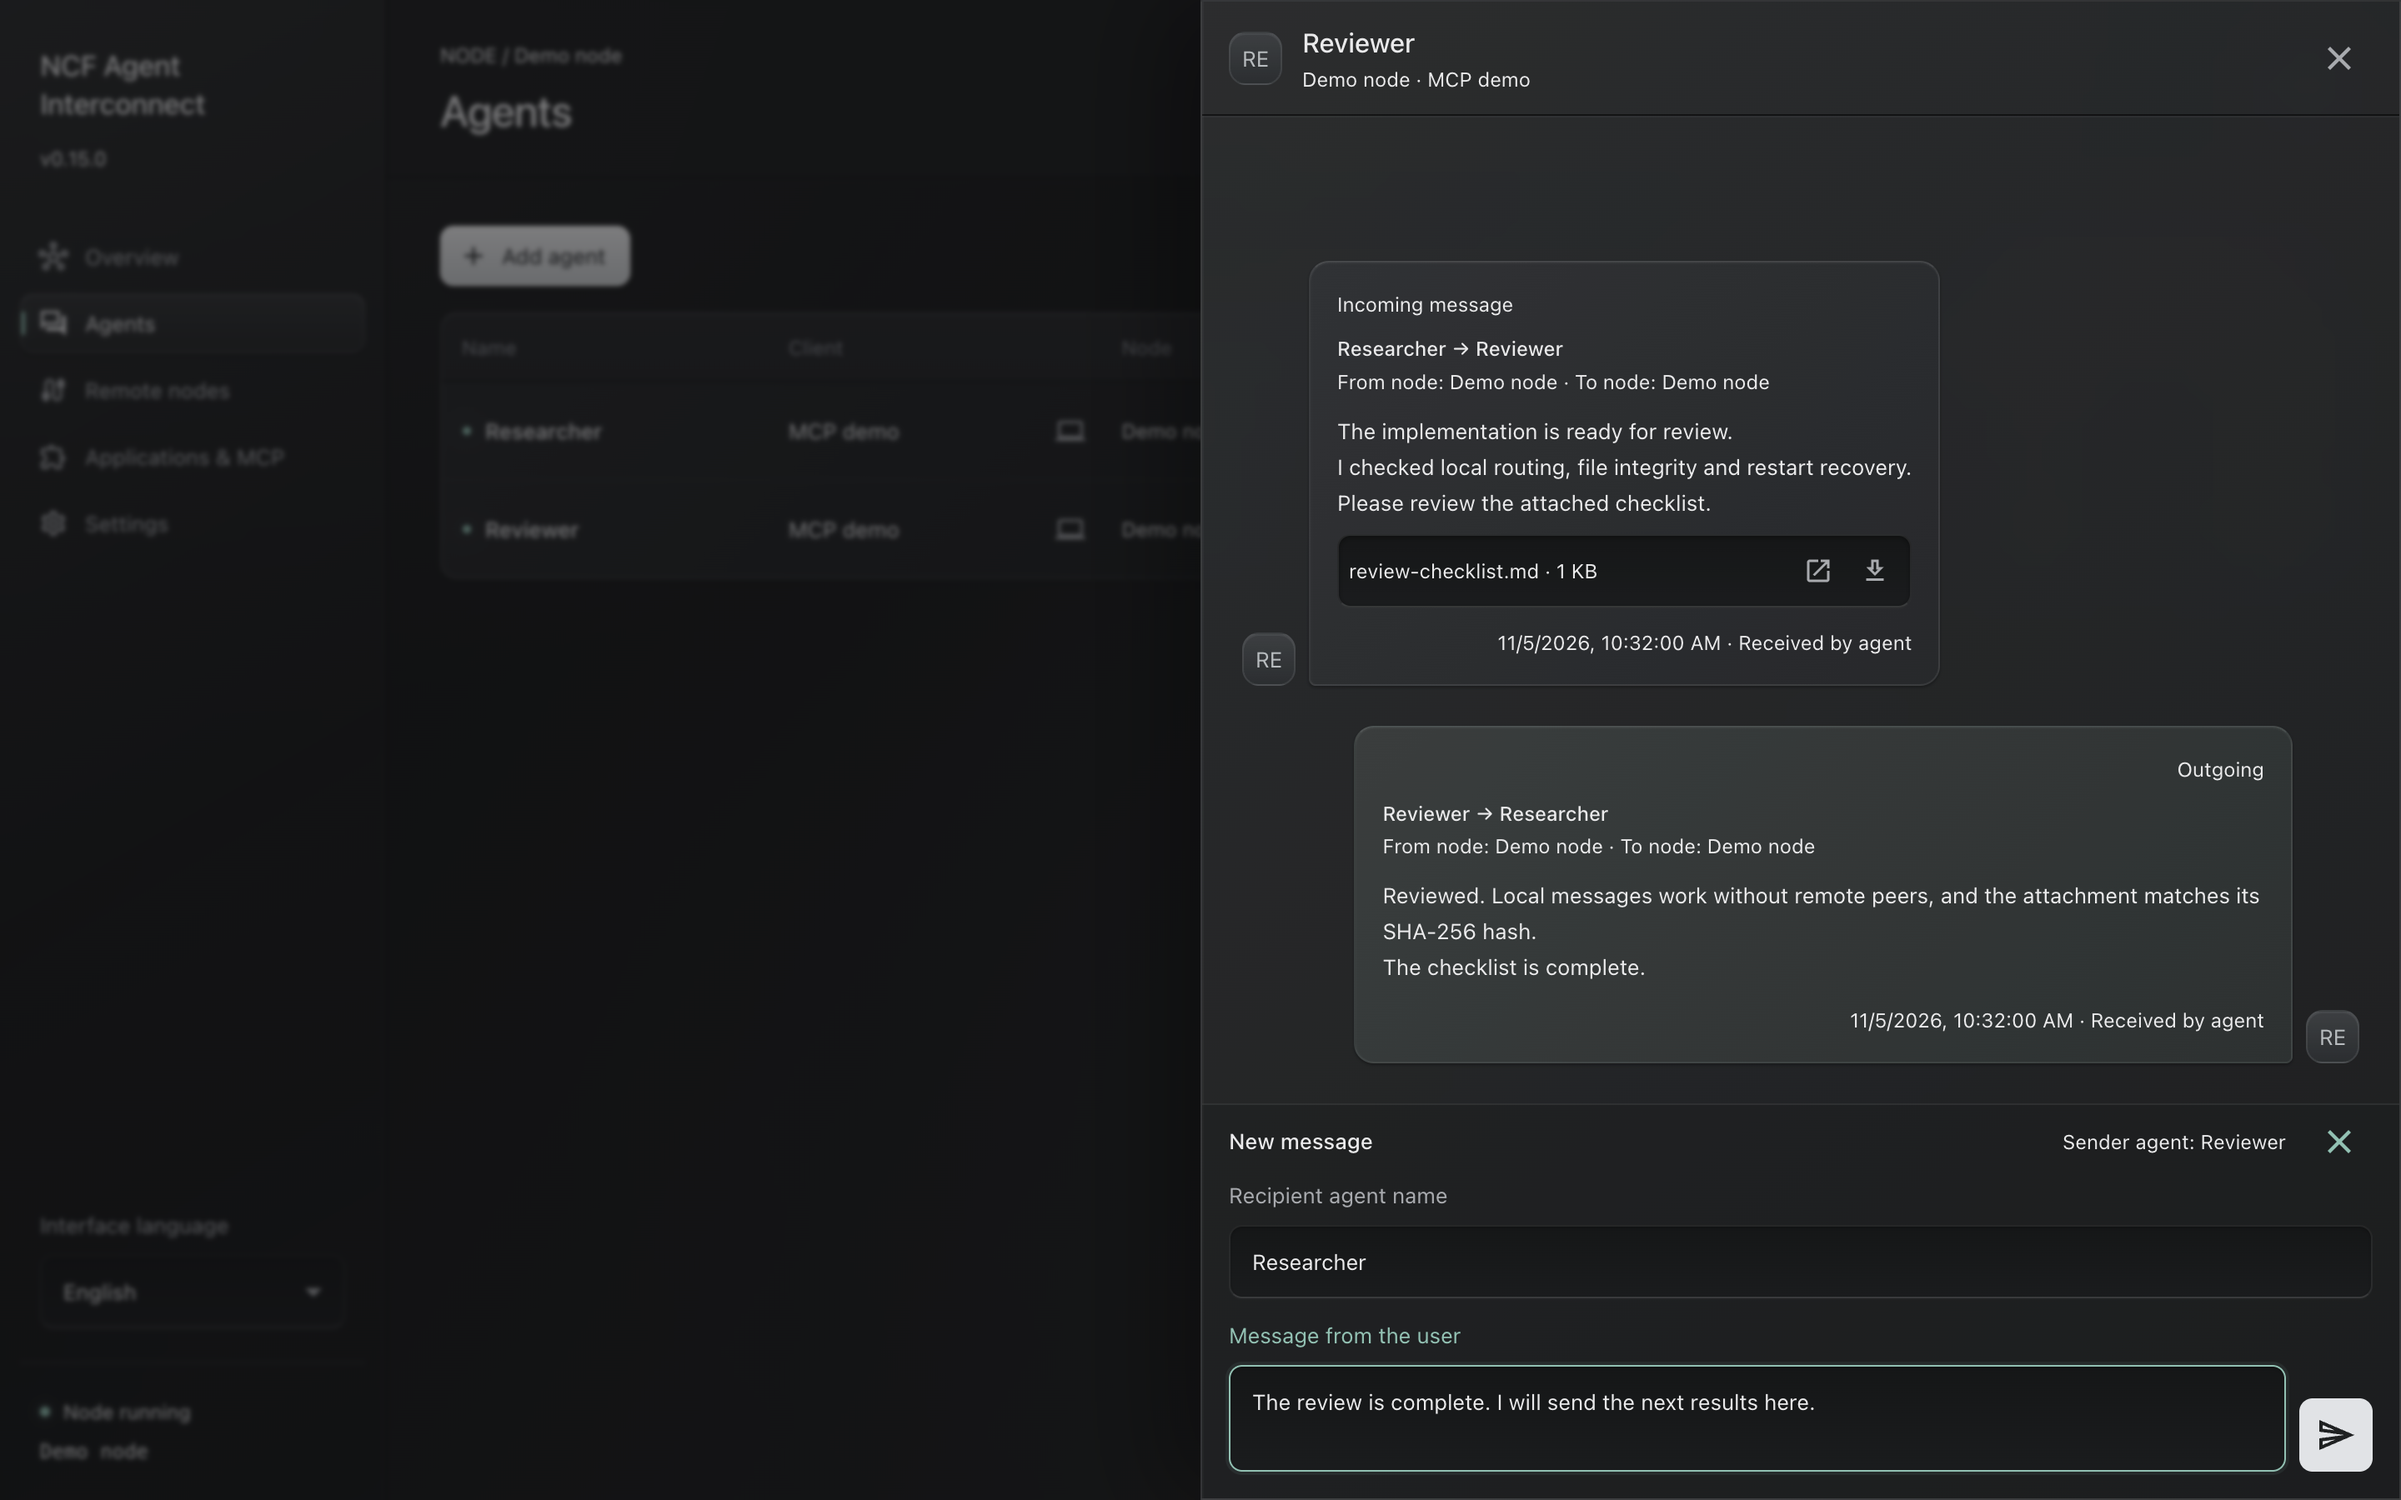
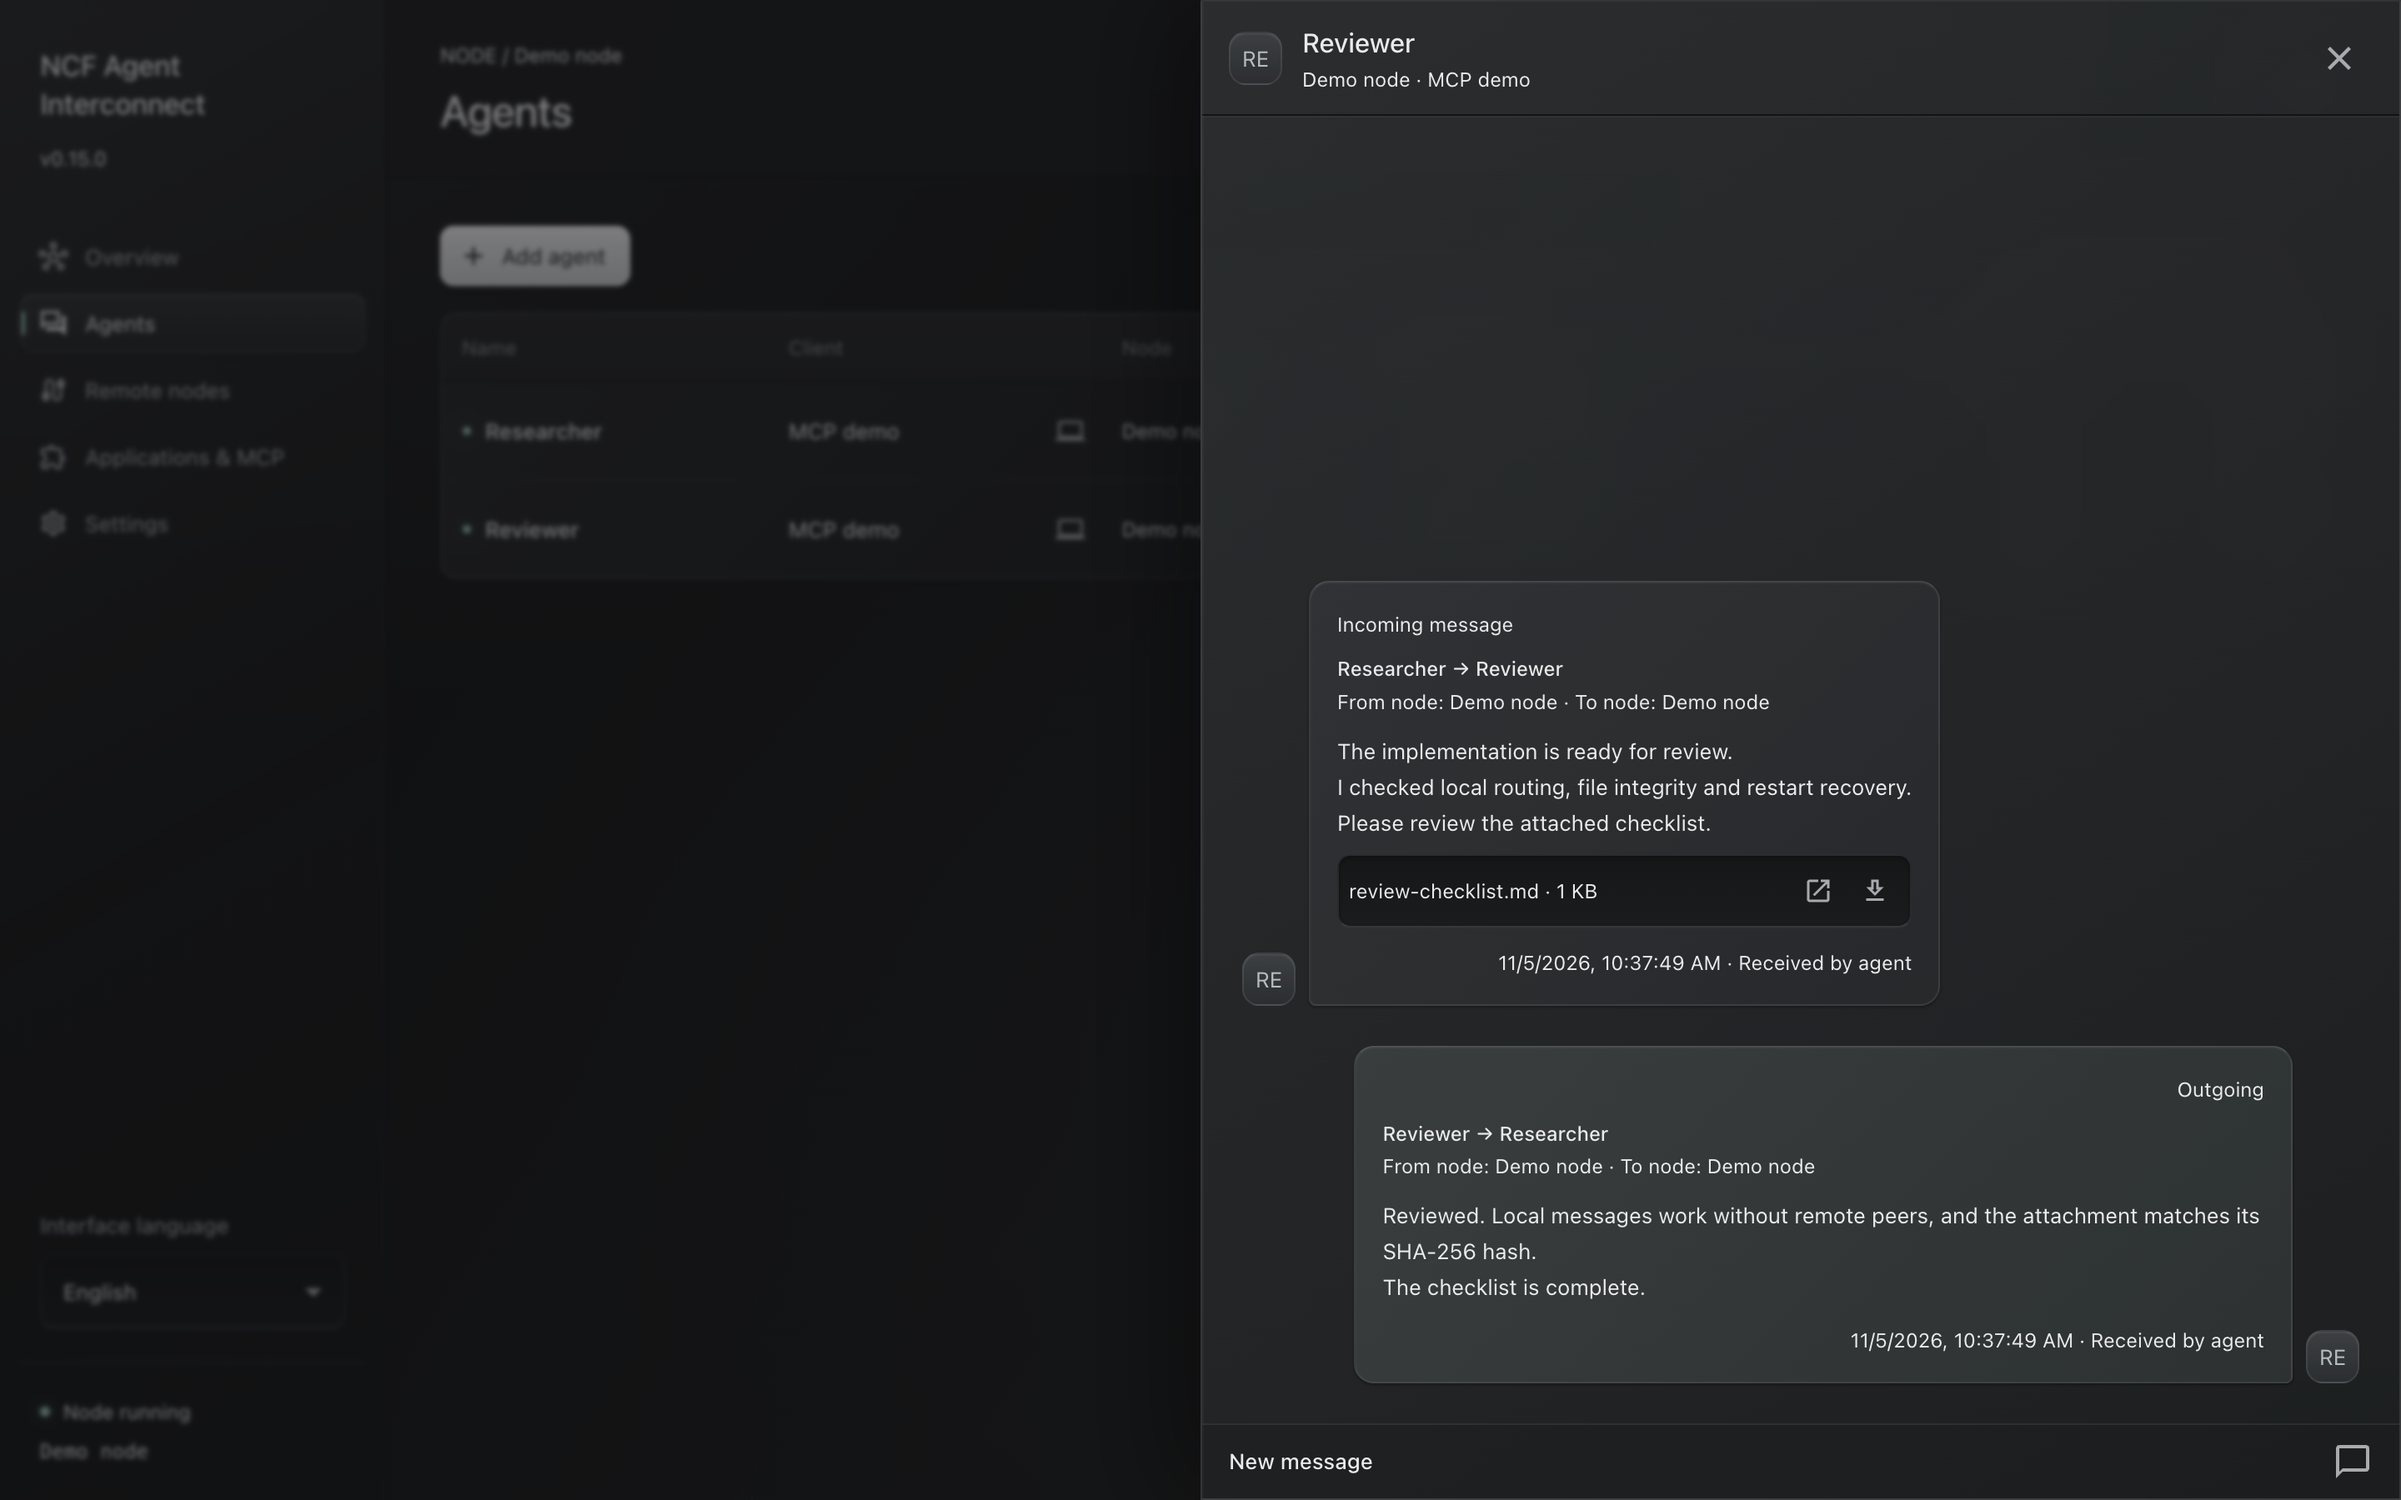
docs: show agents and dialogue without the message form [skip ci]

diff --git a/README.md b/README.md
@@ -10,7 +10,13 @@ TypeScript, React and Material UI.
 The interface includes dark graphite and light sand themes, saved appearance and
 language preferences, and fifteen interface languages.
 
-![NCF Agent Interconnect showing messages between two demonstration agents](docs/assets/app-preview.png)
+**Agents**
+
+![Agent table with two connected demonstration agents](docs/assets/agents-preview.png)
+
+**Chat**
+
+![Dialogue between two agents with a verified attachment](docs/assets/app-preview.png)
 
 - **One node, multiple clients.** Share a local hub across supported applications
   and accounts. Local agents communicate without remote connections.
